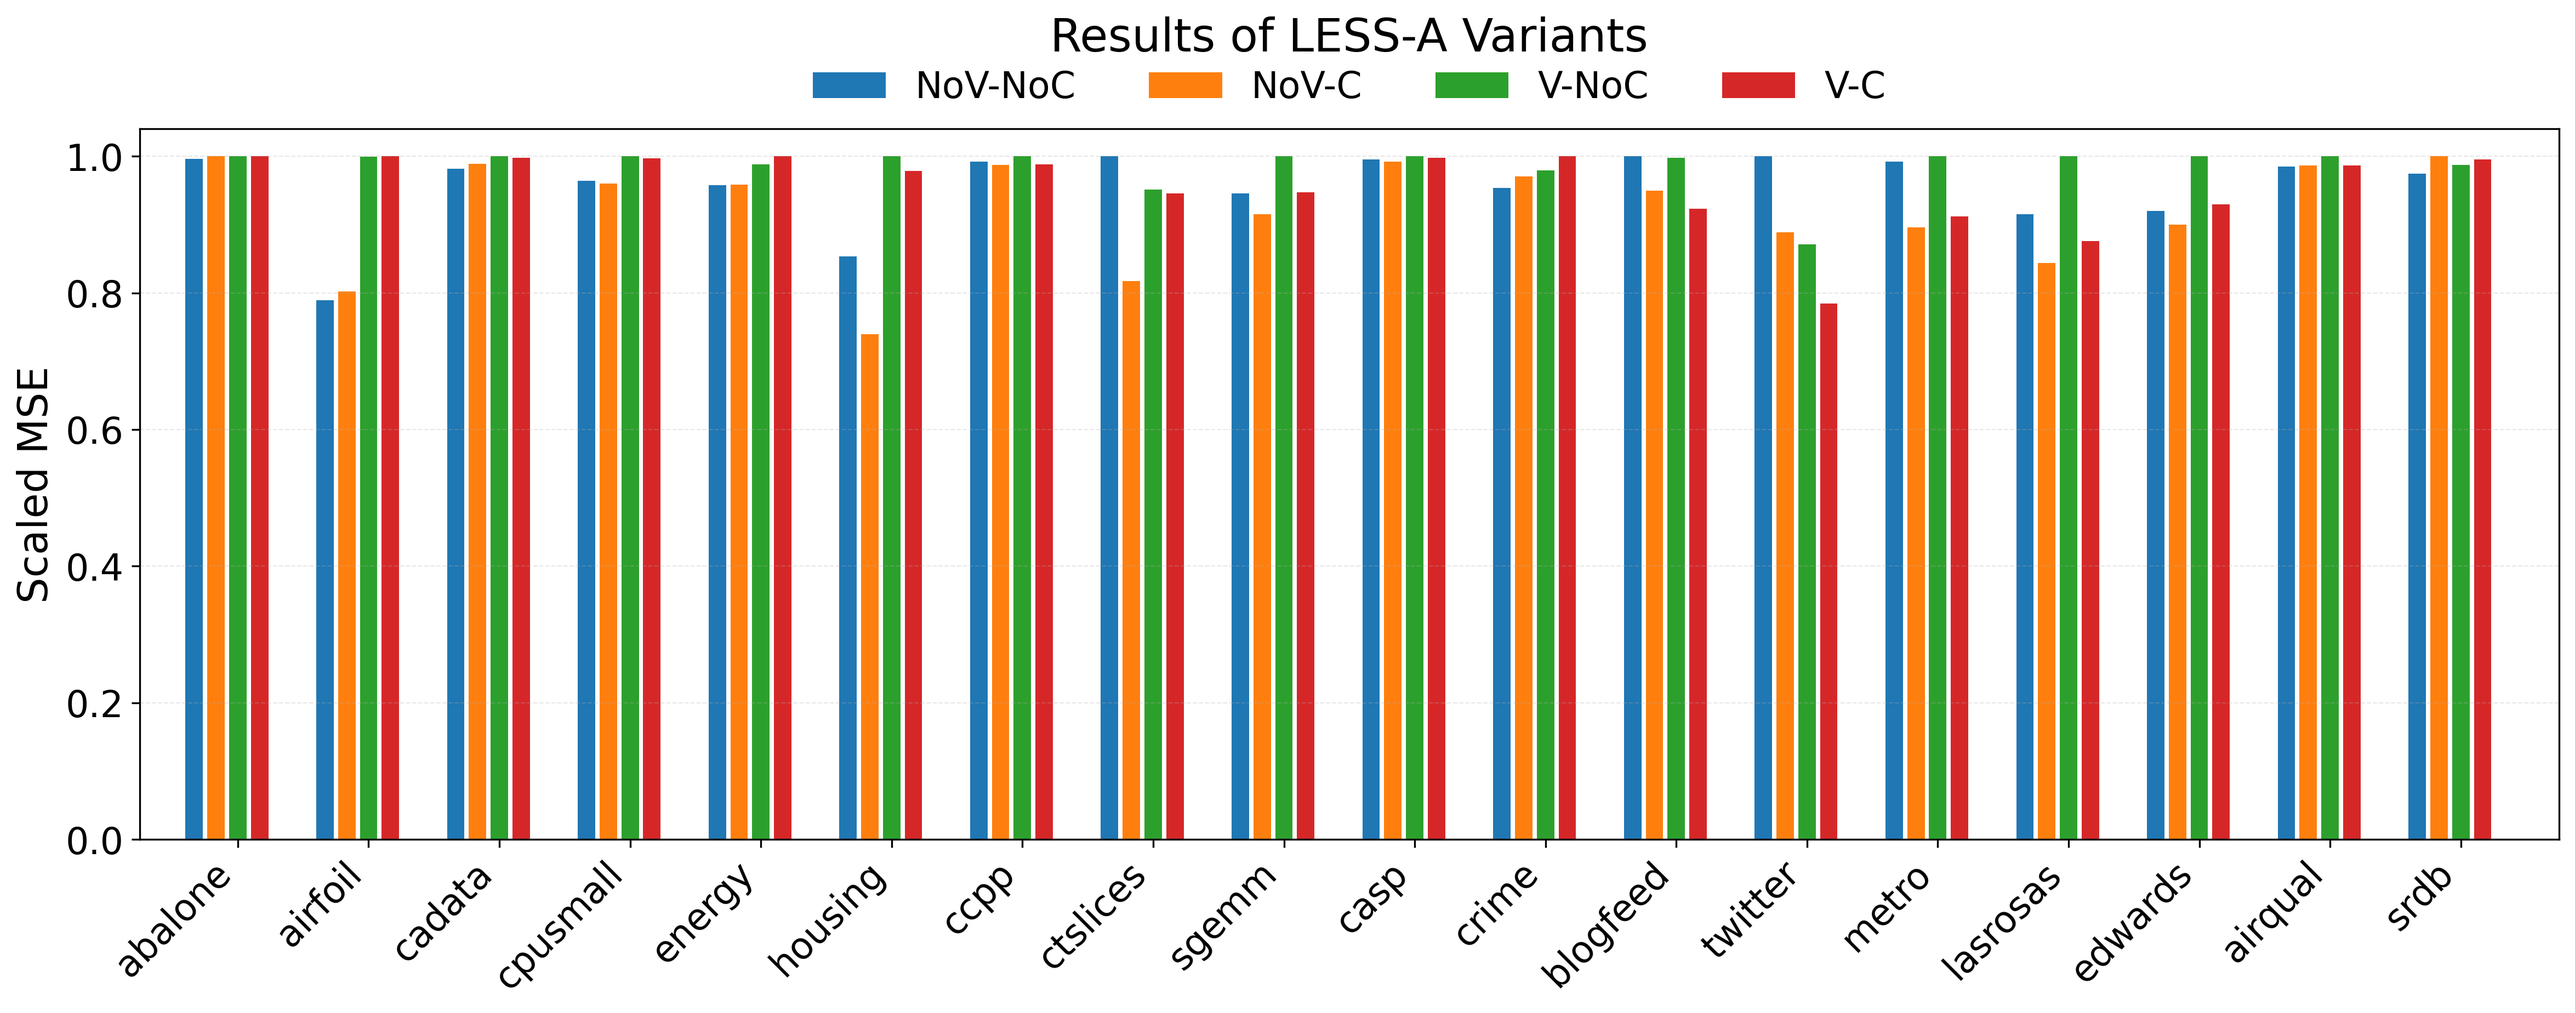
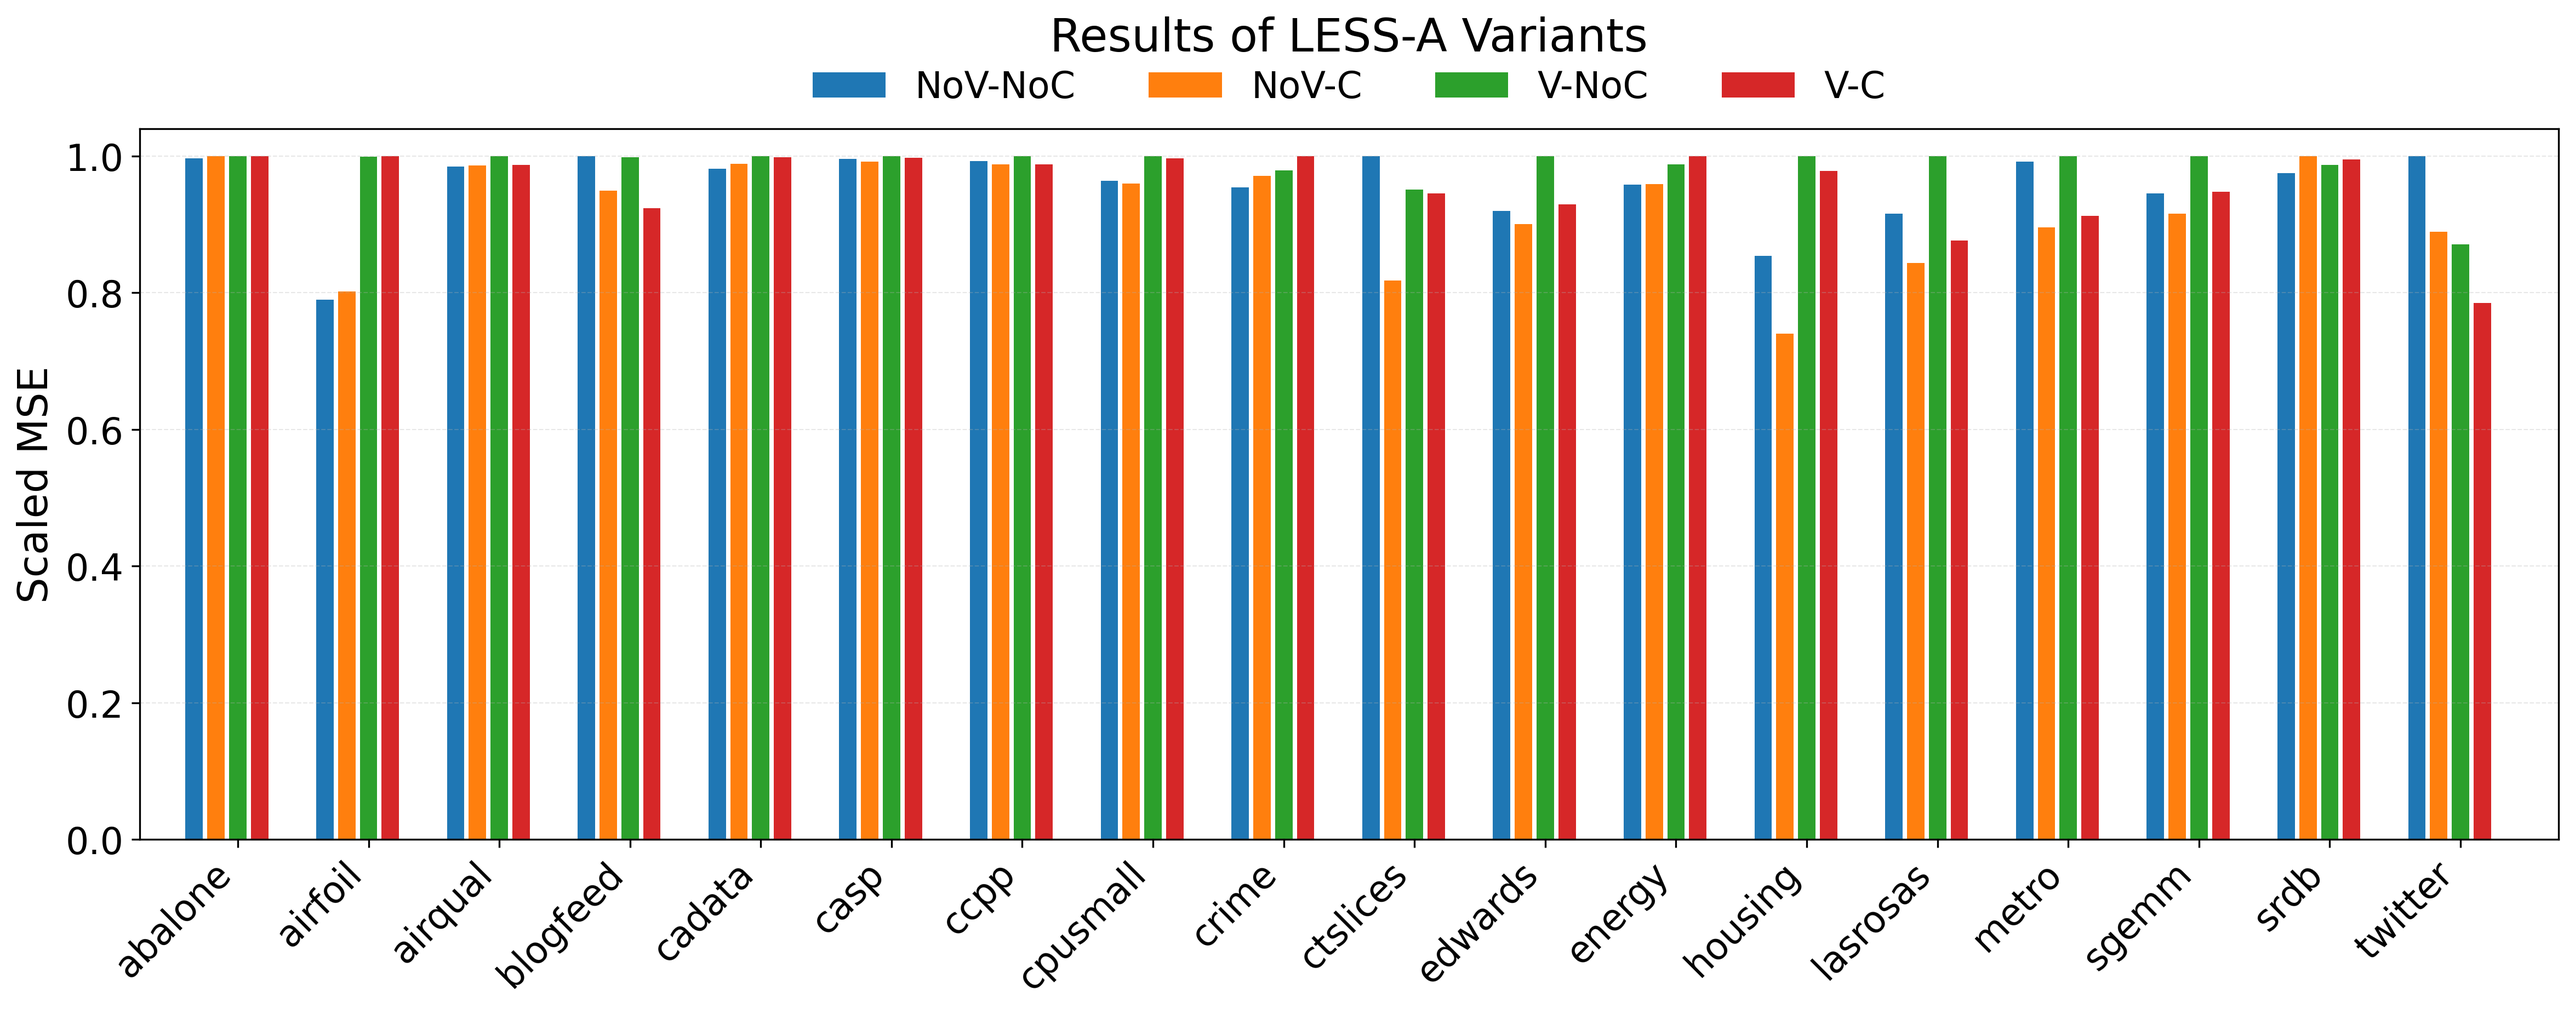
R3: alphabetical problem order in figures

diff --git a/plot_funcs/plot_ablation.py b/plot_funcs/plot_ablation.py
@@ -31,7 +31,7 @@ plt.rc('figure', titlesize=BIGGER_SIZE)
 
 
 def _complete_problems(result_dir, n_arms=8, n_folds=4):
-    """Problems from src.problems whose cells are all there, in suite order.
+    """Problems from src.problems whose cells are all there, in alphabetical order.
 
     A problem is included only when every arm has all of its folds, counting
     cells recorded in _failed; problems with missing cells are printed and
@@ -43,7 +43,7 @@ def _complete_problems(result_dir, n_arms=8, n_folds=4):
     from src.problems import ALL_PROBLEMS
 
     out, partial = [], []
-    for name in ALL_PROBLEMS:
+    for name in sorted(ALL_PROBLEMS):
         path = _os.path.join(result_dir, f"{name}.json")
         if not _os.path.exists(path):
             continue

diff --git a/plot_funcs/plot_variants.py b/plot_funcs/plot_variants.py
@@ -29,7 +29,7 @@ os.makedirs("plots/variants", exist_ok=True)
 
 
 def _complete_problems(result_dir, n_arms=8, n_folds=4):
-    """Problems from src.problems whose cells are all there, in suite order.
+    """Problems from src.problems whose cells are all there, in alphabetical order.
 
     A problem is included only when every arm has all of its folds; problems
     with missing cells are printed and skipped.
@@ -40,7 +40,7 @@ def _complete_problems(result_dir, n_arms=8, n_folds=4):
     from src.problems import ALL_PROBLEMS
 
     out, partial = [], []
-    for name in ALL_PROBLEMS:
+    for name in sorted(ALL_PROBLEMS):
         path = _os.path.join(result_dir, f"{name}.json")
         if not _os.path.exists(path):
             continue

diff --git a/plot_funcs/plot_incremental.py b/plot_funcs/plot_incremental.py
@@ -36,7 +36,7 @@ PLOTS_DIR = "plots/incremental"
 
 
 def _complete_problems(result_dir, n_arms=8, n_folds=4):
-    """Problems from src.problems whose cells are all there, in suite order.
+    """Problems from src.problems whose cells are all there, in alphabetical order.
 
     A problem is included only when every arm has all of its folds; problems
     with missing cells are printed and skipped.
@@ -47,7 +47,7 @@ def _complete_problems(result_dir, n_arms=8, n_folds=4):
     from src.problems import ALL_PROBLEMS
 
     out, partial = [], []
-    for name in ALL_PROBLEMS:
+    for name in sorted(ALL_PROBLEMS):
         path = _os.path.join(result_dir, f"{name}.json")
         if not _os.path.exists(path):
             continue
